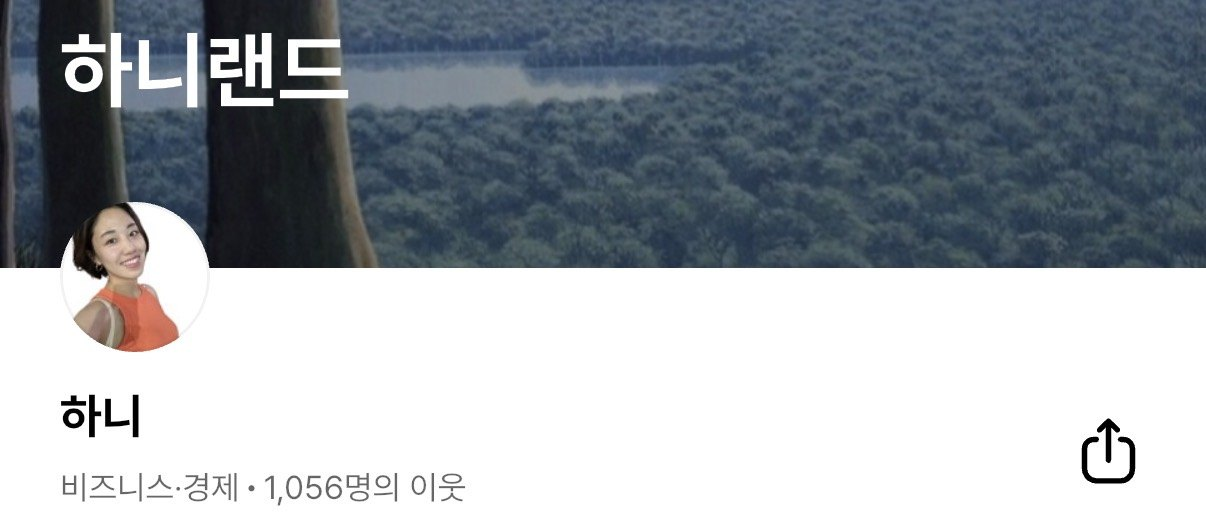
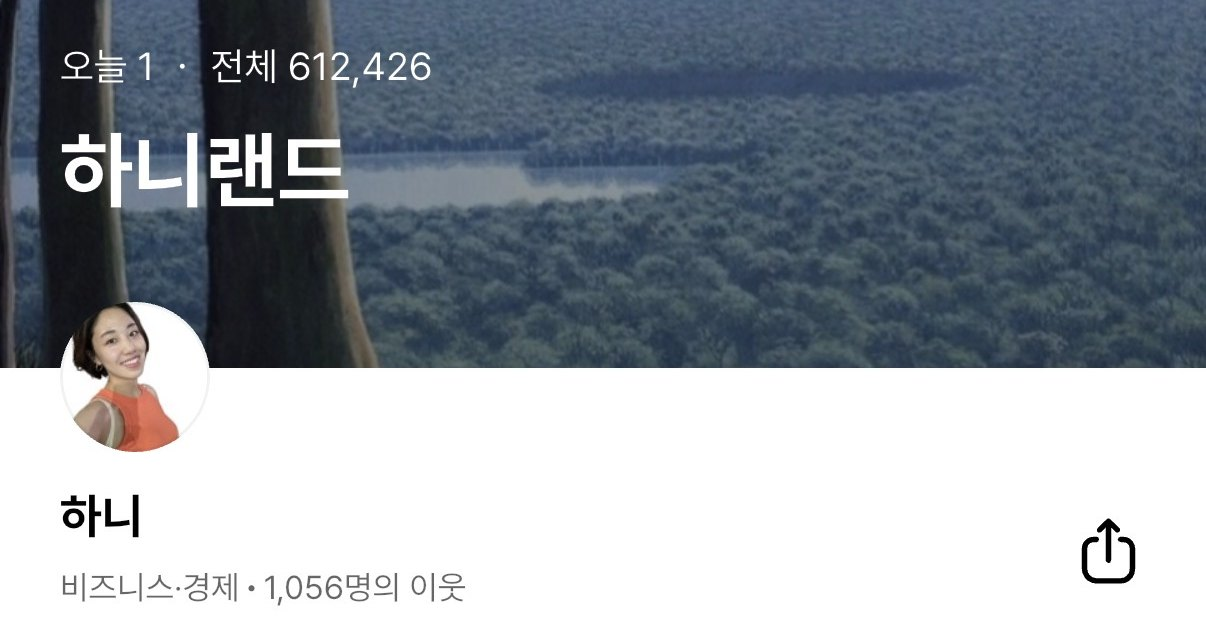
블로그 화면을 누적 방문자 숫자가 보이게 다시 자름
Claude-Session: https://claude.ai/code/session_011qTSmnECQ5t41zeLMhCJnx

diff --git a/index.html b/index.html
@@ -224,7 +224,7 @@ a{color:#1E1E1C}a:hover{color:#3D3D38}
 <div style="background: #FFFCF4; border: 1.5px solid #1E1E1C; border-radius: 18px; padding: 14px 22px"><p style="margin: 0; font-size: 30px; font-weight: 900; line-height: 1.2">8년</p><p style="margin: 2px 0 0; font-size: 16px; color: #4A4A44">공인중개사 경력</p></div>
 <div style="background: #FFFCF4; border: 1.5px solid #1E1E1C; border-radius: 18px; padding: 14px 22px"><p style="margin: 0; font-size: 30px; font-weight: 900; line-height: 1.2">61만</p><p style="margin: 2px 0 0; font-size: 16px; color: #4A4A44">블로그 누적 방문자</p></div>
 </div>
-<figure style="margin: 28px 0 0; max-width: 520px"><img src="images/blog.jpg" alt="네이버 블로그 하니랜드 프로필 화면" width="1206" height="530" style="display: block; width: 100%; height: auto; border-radius: 18px; border: 1.5px solid #1E1E1C"><figcaption style="margin-top: 10px; font-size: 16px; color: #3D3D38">네이버 블로그 '하니랜드' · 누적 방문자 612,426명 (2026년 11월 기준)</figcaption></figure>
+<figure style="margin: 28px 0 0; max-width: 520px"><img src="images/blog.jpg" alt="네이버 블로그 하니랜드 프로필 화면" width="1206" height="630" style="display: block; width: 100%; height: auto; border-radius: 18px; border: 1.5px solid #1E1E1C"><figcaption style="margin-top: 10px; font-size: 16px; color: #3D3D38">네이버 블로그 '하니랜드' · 누적 방문자 612,426명 (2026년 11월 기준)</figcaption></figure>
 </div>
 </div>
 </section>
